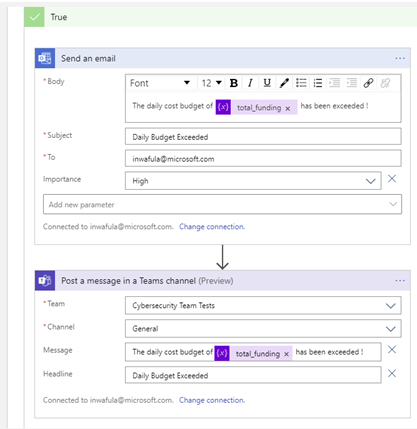
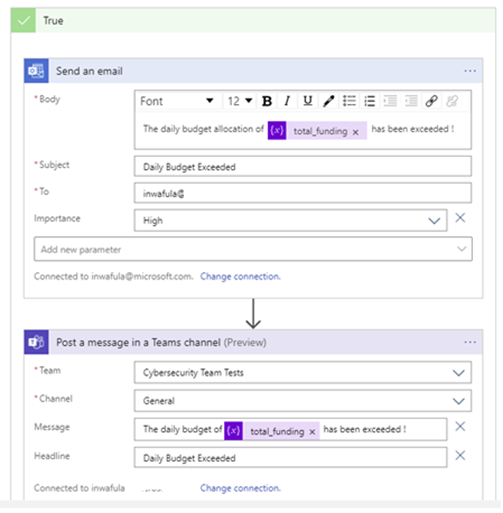
Update images and readme

Changed region(s): [[0.0312, 0.0909, 0.9976, 0.9697], [0.0, 0.0, 0.2806, 0.2121], [0.0624, 0.303, 0.1871, 0.3333]]

diff --git a/Playbooks/Send-IngestionCostAlert/readme.md b/Playbooks/Send-IngestionCostAlert/readme.md
@@ -1,5 +1,5 @@
-# Ingestion Cost Push Notification Solution
-Managng cost for cloud services is an essential part of ensuring that you get maximium value for your investmet in solutions running on this computing platform. Azure Sentinel is no different. To help you exercise greater control over your budget for Azure Sentinel, this playbook will send you an alert should you exceed a budget that you define for your Azure Sentinel Worksapce. 
+# Ingestion Cost Alert Playbook
+Managing cost for cloud services is an essential part of ensuring that you get maximum value for your investment in solutions running on this computing platform. Azure Sentinel is no different. To help you exercise greater control over your budget for Azure Sentinel  this playbook will send you an alert should you exceed a budget that you define for your Azure Sentinel Workspace within a given time-frame. 
 
 ### Overview of the Logic App  
 
